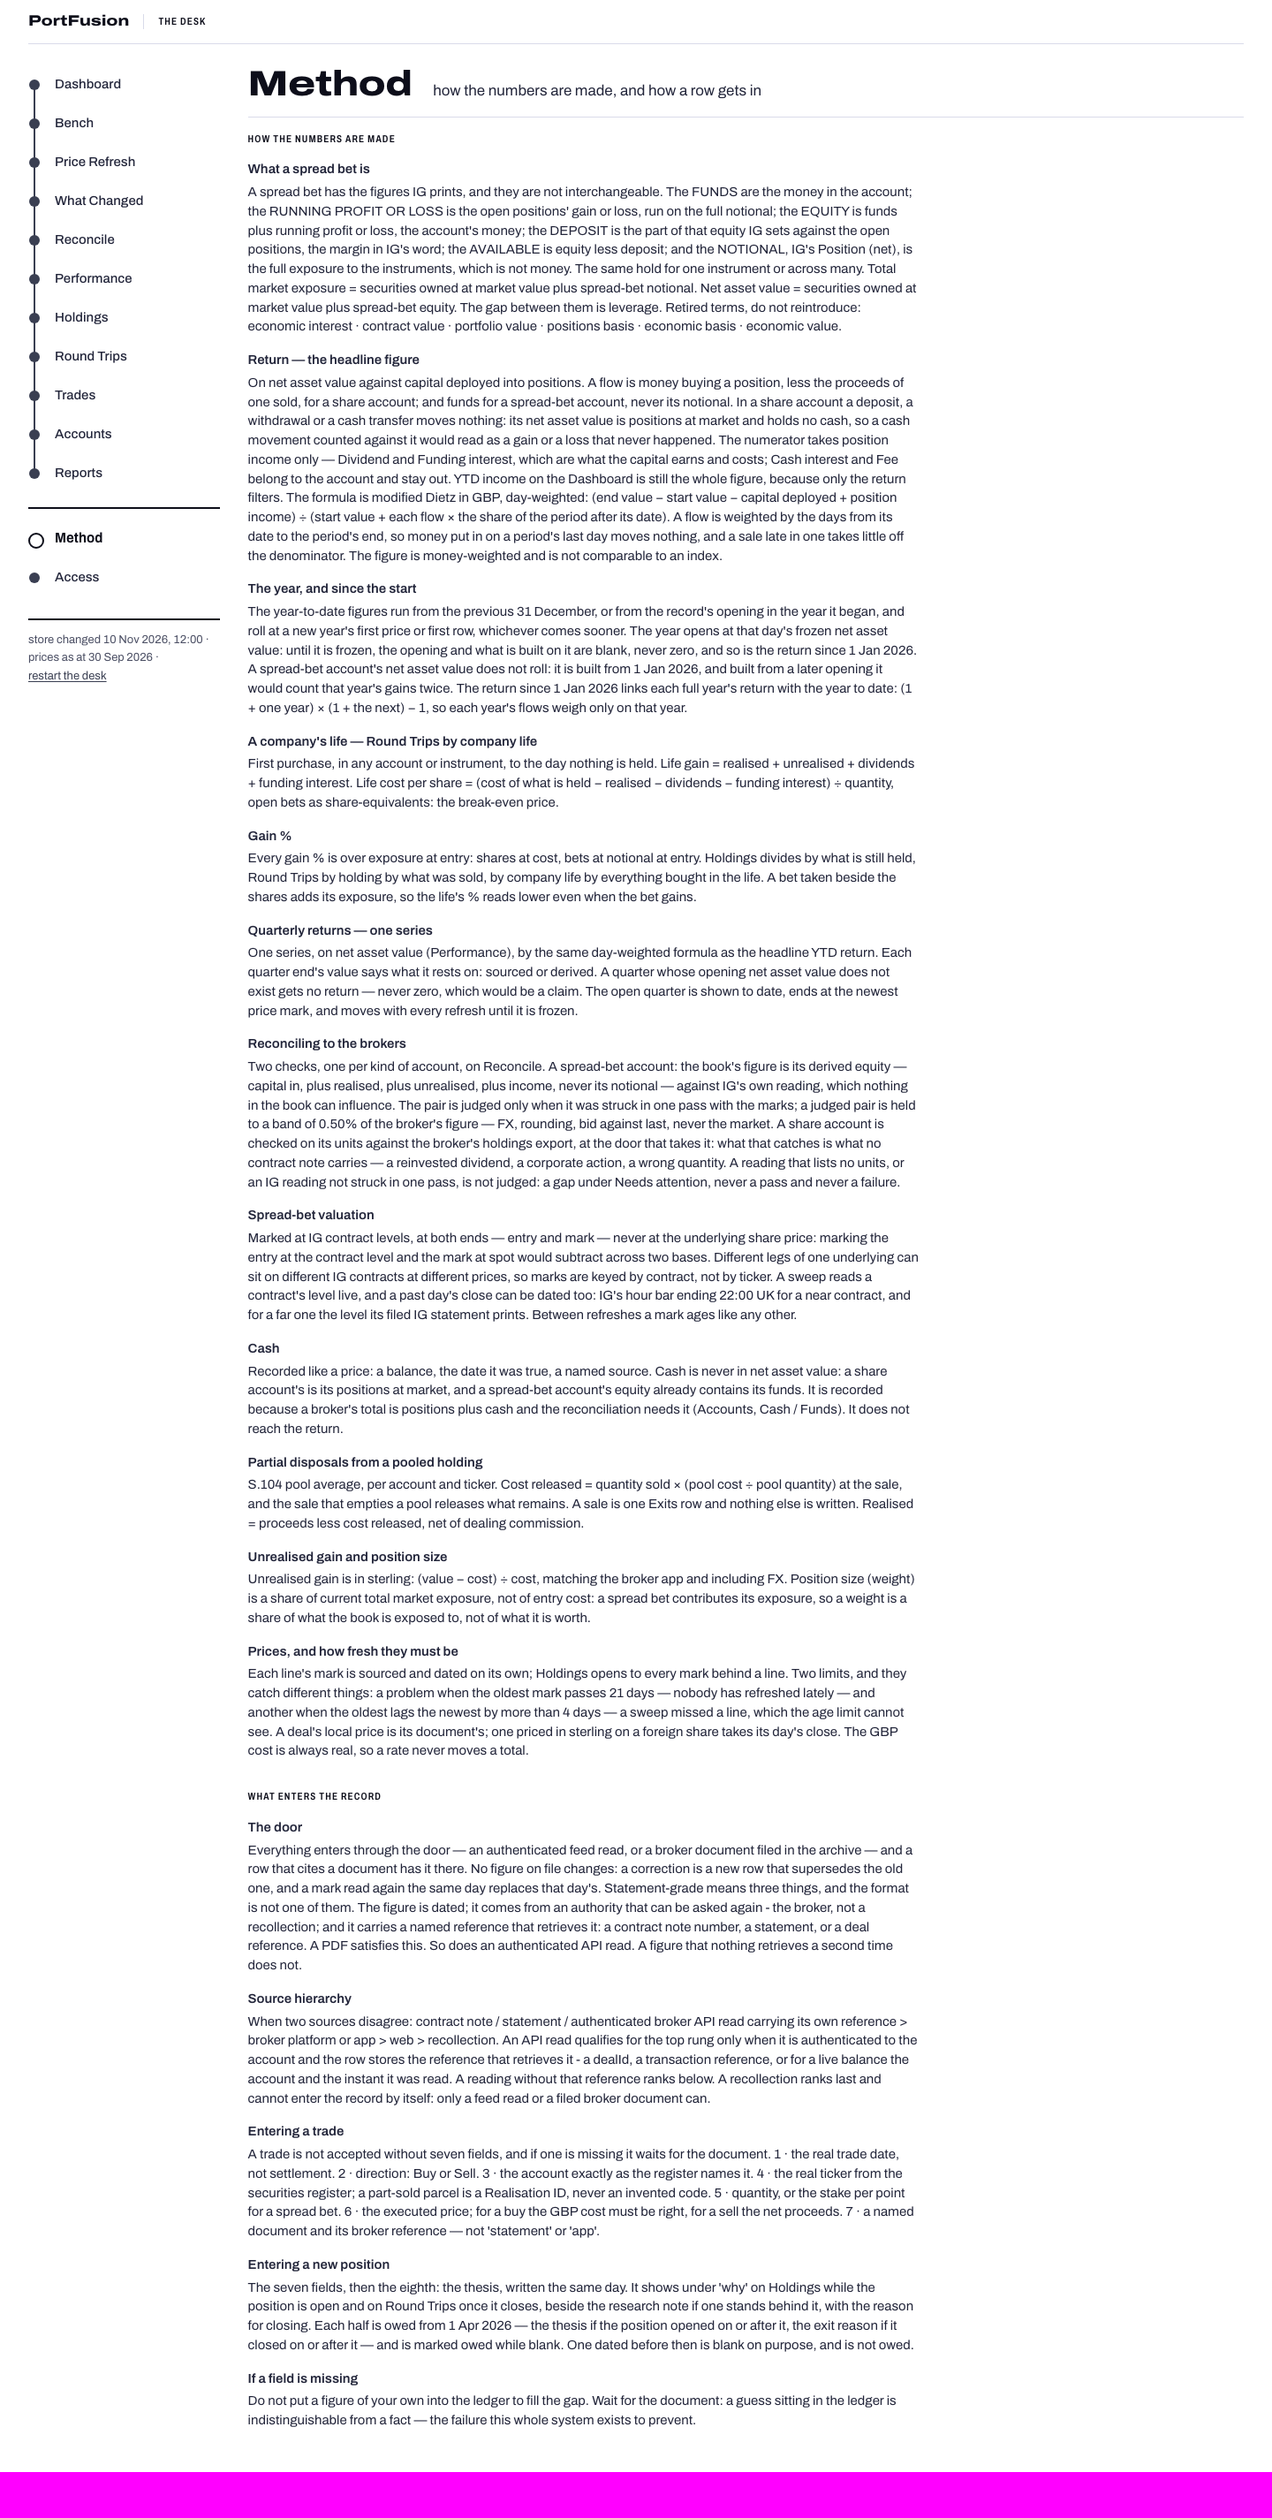
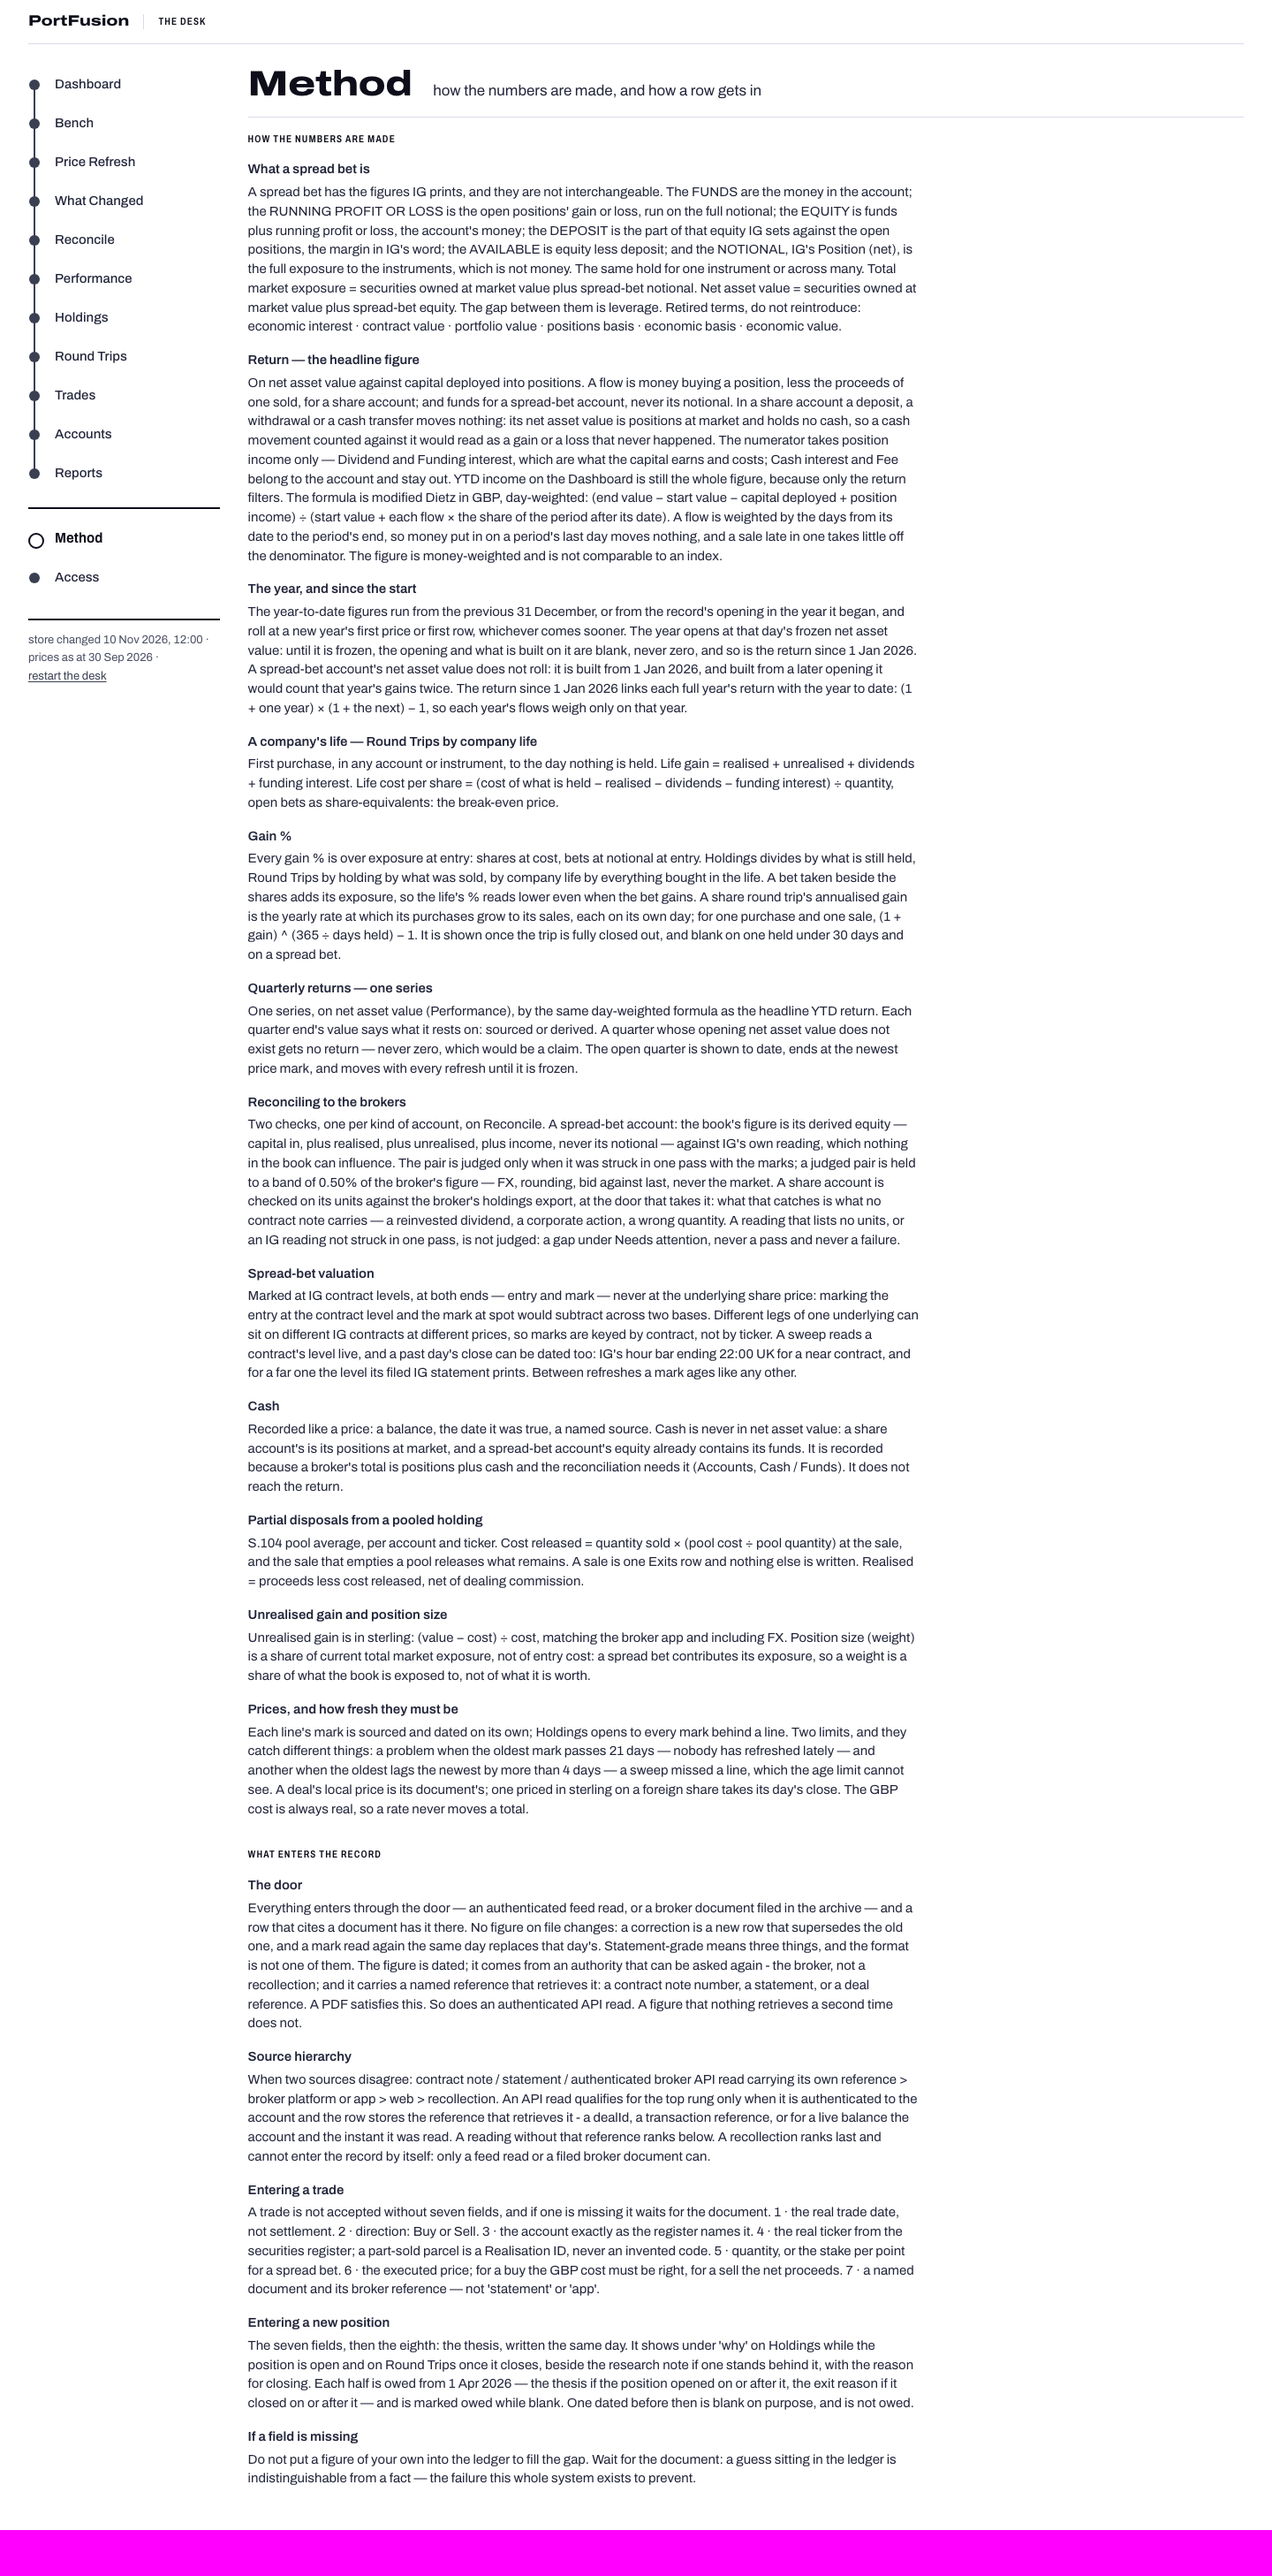
Give a closed share round trip its annualised gain
Round Trips gave a round trip's realised gain, its percentage and its days
held, and two trips held for different lengths could not be compared at a
glance.

Book.round_trips() now carries annualised_pct, shown as the last column, after
Closed out: the yearly rate at which the trip's purchases grow to its sales,
each on its own day (its internal rate of return), found by halving. Money put
in late or taken out early counts for the days it was in. A trip of one
purchase and one sale is its realised percentage compounded to a year,
(1 + r) ^ (365 / days) - 1.

Weighting the flows by their days and compounding the result, as a period's
return does, was tried first: it agrees on a trip of one purchase and one
sale, and parts from the true rate on a trip of several years built in
several purchases, where a period's formula is not meant to reach.

It is blank until the trip is fully closed out; on one held under
Trades.ANNUALISED_FROM days, thirty, where a few days' gain compounded over a
year is a figure with no meaning; and on a spread bet. A bet's percentage is
on notional, and its return belongs on the money put up for it, which the
record does not hold: that is its own issue.

On the demo the one closed share trip, 12.00% over 130 days, reads 37.46%. A
constructed trip built in two purchases holds the rate.

The heading is the glossary's new Annualised gain (%), and the Method page
says how it is made. The field joins house's percentage and movement fields.
[…]

Changed region(s): [[0.1875, 0.0312, 0.7188, 0.9681], [0.0312, 0.0312, 0.1562, 0.2811]]

diff --git a/src/portfusion/engine/trades.py b/src/portfusion/engine/trades.py
@@ -11,6 +11,10 @@ from portfusion.engine.core import Core
 
 class Trades(Core):
 
+    #: The days a round trip must have been held before its gain is put on a yearly footing:
+    #: compounding a few days' gain over a year gives a figure with no meaning.
+    ANNUALISED_FROM = 30
+
     # ---- ROUND TRIPS -----------------------------------------------------------------
 
     def round_trips(self, ticker: str | None = None, account: str | None = None,
@@ -103,6 +107,7 @@ class Trades(Core):
         rt["exit_level_points"] = rt["exit_price"].where(is_sb).round(2)
         rt["realised"] = rt["proceeds"] - rt["cost"]
         rt["realised_pct"] = rt["realised"] / rt["cost"]
+        rt["annualised_pct"] = self._annualised(rt)
         rt["pre_baseline"] = rt["opened"] < self.baseline
         # BY EXIT DATE, MOST RECENT FIRST — a realisation log reads what happened lately first —
         # with a stable tie-break on the realisation id, as activity() uses: several realisations
@@ -123,6 +128,45 @@ class Trades(Core):
             rt = rt[rt["closed"] <= pd.Timestamp(end)]
         return (rt.sort_values(["closed", "realisation_id"], ascending=False)
                   .reset_index(drop=True))
+
+    def _annualised(self, rt: pd.DataFrame) -> pd.Series:
+        """A SHARE ROUND TRIP'S GAIN ON A YEARLY FOOTING, once it is fully closed out and was
+        held ANNUALISED_FROM days or more; blank on any other, and on a spread bet, whose money
+        put up the record does not hold.
+
+        THE YEARLY RATE AT WHICH ITS PURCHASES GROW TO ITS SALES, each on its own day: the rate
+        that brings every purchase's cost and every sale's proceeds, discounted to the trip's
+        first day, to nothing. Money in late or out early counts for the days it was in, and a
+        trip of one purchase and one sale is its realised percentage compounded to a year.
+        Found by halving between a total loss and `ceiling`; a trip that brought nothing back is
+        a total loss, and any other with no such rate is blank."""
+        L = self.ledger[self.ledger["realisation_id"].notna()]
+        paid = L[L["direction"] == "Buy"].assign(amount=lambda d: -d["cost"])
+        got = L[L["direction"] == "Sell"].assign(amount=lambda d: d["proceeds"])
+        flows = {k: list(zip(g["date"], g["amount"])) for k, g in
+                 pd.concat([paid, got]).dropna(subset=["amount"]).groupby("realisation_id")}
+        floor, ceiling = -0.999999, 1000.0
+
+        def rate(trip) -> float | None:
+            mine = [((day - trip.opened).days / 365, amount)
+                    for day, amount in flows.get(trip.realisation_id, [])]
+
+            def worth(r: float) -> float:
+                return sum(amount / (1 + r) ** years for years, amount in mine)
+            low, high = floor, ceiling
+            if mine and not any(amount > 0 for _, amount in mine):
+                return -1.0
+            if not mine or worth(low) * worth(high) > 0:
+                return None
+            for _ in range(100):
+                mid = (low + high) / 2
+                low, high = (low, mid) if worth(low) * worth(mid) <= 0 else (mid, high)
+            return (low + high) / 2
+
+        shown = (rt["fully_closed"].astype(bool) & rt["held_as"].eq("shares")
+                 & (rt["days_held"] >= self.ANNUALISED_FROM))
+        return pd.Series([rate(t) if ok else None for t, ok in zip(rt.itertuples(index=False), shown)],
+                         index=rt.index, dtype=float)
 
     def round_trip_totals(self, ticker: str | None = None, account: str | None = None,
                           start: str | None = None, end: str | None = None,

diff --git a/src/portfusion/tests/engine/test_company_life.py b/src/portfusion/tests/engine/test_company_life.py
@@ -243,6 +243,23 @@ def test_a_full_exit_then_a_new_purchase_is_a_second_life(store_copy):
 
 
 @needs("accounts")
+def test_a_round_trip_is_annualised_on_the_money_and_the_days_it_was_in(store_copy):
+    """100 shares at 100p, 100 more at 100p twenty days on, all sold at 110p on day forty: £20
+    on £200. The second £100 was in for half the trip, so the yearly rate is the one that grows
+    each £100 from its own day to the £220, above the trip's percentage compounded."""
+    co = _Company(store_copy, "ANLZ", price=1.10)
+    co.buy(_on(0), 100, 1.00)
+    co.buy(_on(20), 100, 1.00)
+    co.sell(_on(40), 200, 1.10, "R-ANLZ")
+    trip = _reloaded().round_trips().set_index("realisation_id").loc["R-ANLZ"]
+    ties(trip["realised_pct"], 20 / 200, "the trip's own percentage, on all it cost")
+    yearly = trip["annualised_pct"]
+    ties(100 * (1 + yearly) ** (40 / 365) + 100 * (1 + yearly) ** (20 / 365), 220.0,
+         "each purchase grown to the sale")
+    assert yearly > (1 + 20 / 200) ** (365 / 40) - 1, "the late money counted as in from the start"
+
+
+@needs("accounts")
 def test_a_dividend_is_its_lifes_even_when_paid_after_the_final_sale(store_copy):
     """A dividend counts in the life open on its date, or, paid after the line was sold out, in
     the life it was earned in; it lowers the life cost of what is still held."""

diff --git a/src/portfusion/tests/desk/test_panels.py b/src/portfusion/tests/desk/test_panels.py
@@ -600,7 +600,7 @@ def test_movement_colour_is_used_and_scoped():
       change price_effect fx_effect price_move_pct
                   all four are RESULTS — the sign says whether the book is better or worse off,
                   which is the test this list has always applied.
-      unrealised unrealised_pct realised realised_pct life_gain life_pct
+      unrealised unrealised_pct realised realised_pct annualised_pct life_gain life_pct
                   a holding's, a round trip's and a company life's gains: results, as `gain` is.
       transacted  NOT a result, and never to be added. Buying shares is not a
                   gain and selling them is not a loss. Same exclusion as
@@ -617,7 +617,7 @@ def test_movement_colour_is_used_and_scoped():
     cols = set(MOVEMENT_FIELDS)
     assert cols == {"gain", "unrealised", "unrealised_pct", "realised_pct", "return",
                     "change", "price_effect", "fx_effect", "price_move_pct",
-                    "realised", "life_gain", "life_pct"}, \
+                    "realised", "life_gain", "life_pct", "annualised_pct"}, \
         f"MOVEMENT_FIELDS is {sorted(cols)}"
 
     for excluded, why in (("difference", "a reconciliation gap is not a loss"),

diff --git a/src/portfusion/desk/panels/method.py b/src/portfusion/desk/panels/method.py
@@ -73,7 +73,11 @@ def data() -> dict:
                 "entry. Holdings divides by what is still held, Round Trips by holding by what "
                 "was sold, by company life by everything bought in the life. A bet taken beside "
                 "the shares adds its exposure, so the life's % reads lower even when the bet "
-                "gains.")},
+                "gains. A share round trip's annualised gain is the yearly rate at which its "
+                "purchases grow to its sales, each on its own day; for one purchase and one "
+                "sale, (1 + gain) ^ (365 ÷ days held) − 1. It is shown once the trip is fully "
+                f"closed out, and blank on one held under {b.ANNUALISED_FROM} days and on a "
+                "spread bet.")},
             {"topic": "Quarterly returns — one series", "text": (
                 "One series, on net asset value (Performance), by the same day-weighted formula "
                 "as the headline YTD return. Each quarter end's value says what it rests on: sourced "

diff --git a/src/portfusion/tests/desk/test_ties.py b/src/portfusion/tests/desk/test_ties.py
@@ -81,6 +81,14 @@ def test_round_trips_are_the_engines_newest_first(b):
         "the page re-sorted what the engine ordered"
     for r, f in zip(rows, frame):
         assert _same(r["realised"], f["realised"]), f["realisation_id"]
+        # ON A YEARLY FOOTING only for shares fully closed out and held long enough; a gain
+        # is then a yearly gain and a loss a yearly loss.
+        yearly = f["annualised_pct"]
+        assert r["annualised_pct"] == (pytest.approx(yearly) if yearly == yearly else None)
+        if yearly == yearly:
+            assert f["fully_closed"] and f["held_as"] == "shares"
+            assert f["days_held"] >= b.ANNUALISED_FROM
+            assert abs(f["realised"]) < 0.01 or (yearly > 0) == (f["realised"] > 0)
     closed = [r["closed"] for r in rows]
     assert closed == sorted(closed, reverse=True), "Round Trips is not newest first"
 

diff --git a/src/portfusion/tests/desk/test_accounts.py b/src/portfusion/tests/desk/test_accounts.py
@@ -202,7 +202,8 @@ PANEL_COLUMNS = {
         "COLUMNS": (
             "ticker", "company", "held_as", "account", "currency", "qty", "entry_price",
             "exit_price", "cost",
-            "proceeds", "realised", "realised_pct", "opened", "closed", "days_held", "fully_closed"
+            "proceeds", "realised", "realised_pct", "opened", "closed", "days_held", "fully_closed",
+            "annualised_pct"
         ),
         "REASON_COLUMNS": ("whys", "research_notes"),
         "DETAIL_COLUMNS": ("why_entered", "why_exited", "research_notes", "note"),

diff --git a/src/portfusion/house/precision.py b/src/portfusion/house/precision.py
@@ -51,7 +51,7 @@ MONEY_FIELDS = ("cost", "value", "gain", "unrealised", "proceeds",
                 "amount", "cash", "realised", "dividends", "funding_interest",
                 "total", "life_gain", "book", "broker", "difference")
 PCT_FIELDS = ("unrealised_pct", "realised_pct", "weight", "return", "price_move_pct", "ytd",
-              "life_pct")
+              "life_pct", "annualised_pct")
 
 MONTHS = ("Jan", "Feb", "Mar", "Apr", "May", "Jun", "Jul", "Aug", "Sep", "Oct", "Nov", "Dec")
 

diff --git a/src/portfusion/desk/panels/round_trips.py b/src/portfusion/desk/panels/round_trips.py
@@ -29,7 +29,7 @@ ORDER = 50
 #: it cost and brought in, then its dates.
 COLUMNS = ("ticker", "company", "held_as", "account", "currency", "qty", "entry_price",
            "exit_price", "cost", "proceeds", "realised", "realised_pct", "opened", "closed", "days_held",
-           "fully_closed")
+           "fully_closed", "annualised_pct")
 
 #: THE ROW'S KEY, carried and not drawn: R- and the ticker repeats the Ticker column, and Trades'
 #: detail shows it beside each sale it joins.

diff --git a/src/portfusion/house/palette.py b/src/portfusion/house/palette.py
@@ -45,7 +45,7 @@ TOKENS = {
 #: Dashboard's headline gains stay plain too: a summary is read, a column is scanned.
 MOVEMENT_FIELDS = ("gain", "unrealised", "unrealised_pct", "realised_pct", "return", "change",
                    "price_effect", "fx_effect", "price_move_pct", "realised", "life_gain",
-                   "life_pct")
+                   "life_pct", "annualised_pct")
 
 #: The dark theme: only the tokens that change. The field and the footer do not.
 TOKENS_DARK = {

diff --git a/src/portfusion/house/headings.py b/src/portfusion/house/headings.py
@@ -67,6 +67,7 @@ COMMON = {
     "unrealised_pct": "Unrealised gain (%)",
     "realised": "Realised gain (GBP)",
     "realised_pct": "Realised gain (%)",
+    "annualised_pct": "Annualised gain (%)",    # a round trip fully closed out, compounded
     "quarter_gain": "Quarter gain (GBP)",
     "weight": "Weight",
     "share": "% of book",

diff --git a/CHANGELOG.md b/CHANGELOG.md
@@ -29,6 +29,9 @@ No figure moves, and there is no migration. Do these when the book's pin moves.
 - **A holding's detail holds its history**: its company's life in the engine's figures, and by
   account where it is held in several, the income rows that name it, newest first, and a link to
   the company's life on Round Trips.
+- **Round Trips gives a closed share round trip's annualised gain**: the yearly rate at which
+  its purchases grow to its sales, each on its own day, once the trip is fully closed out and
+  was held thirty days or more. Blank on a spread bet.
 - **`docs/ux-audit.md`**: a newcomer's walk of the desk on the demo, 70 ranked findings.
 
 ### Changed

diff --git a/docs/glossary.md b/docs/glossary.md
@@ -100,6 +100,7 @@ not *realized*.
 |---|---|
 | Gain on an open position | **Unrealised gain (GBP) · Unrealised gain (%)** |
 | Gain on a closed position | **Realised gain (GBP) · Realised gain (%)** |
+| The yearly rate at which a share round trip's purchases grow to its sales, each on its own day; blank until the trip is fully closed out, on one held under thirty days, and on a spread bet | **Annualised gain (%)** |
 | A line's gain over a quarter | **Quarter gain (GBP)** |
 | A round trip's prices, in the share's own currency | **Entry price · Exit price**, beside **Ccy** |
 | Issuer name | **Company** |
